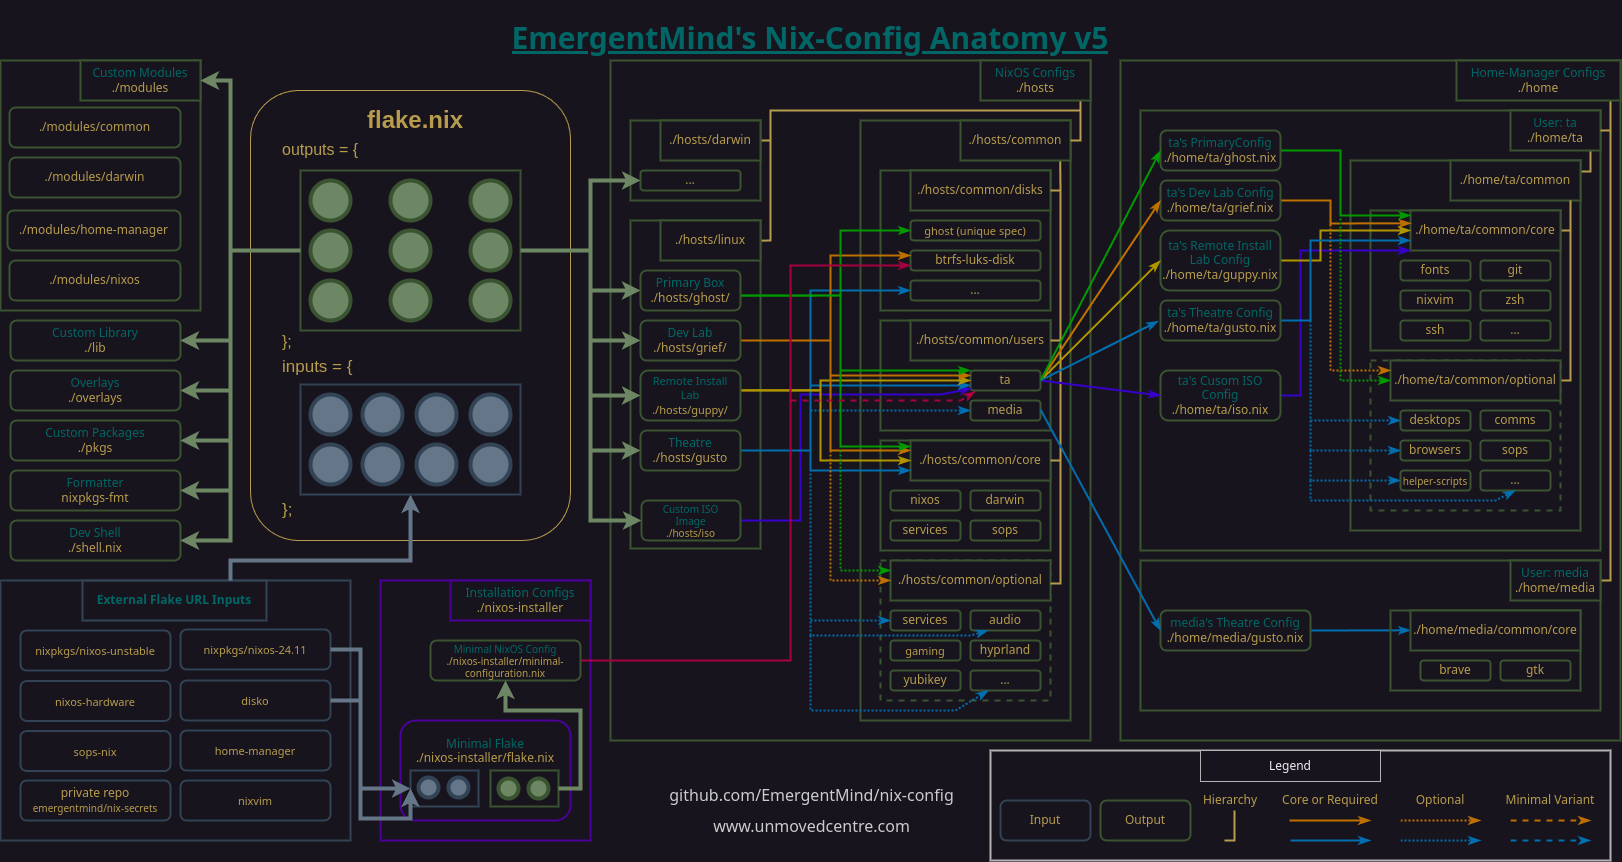
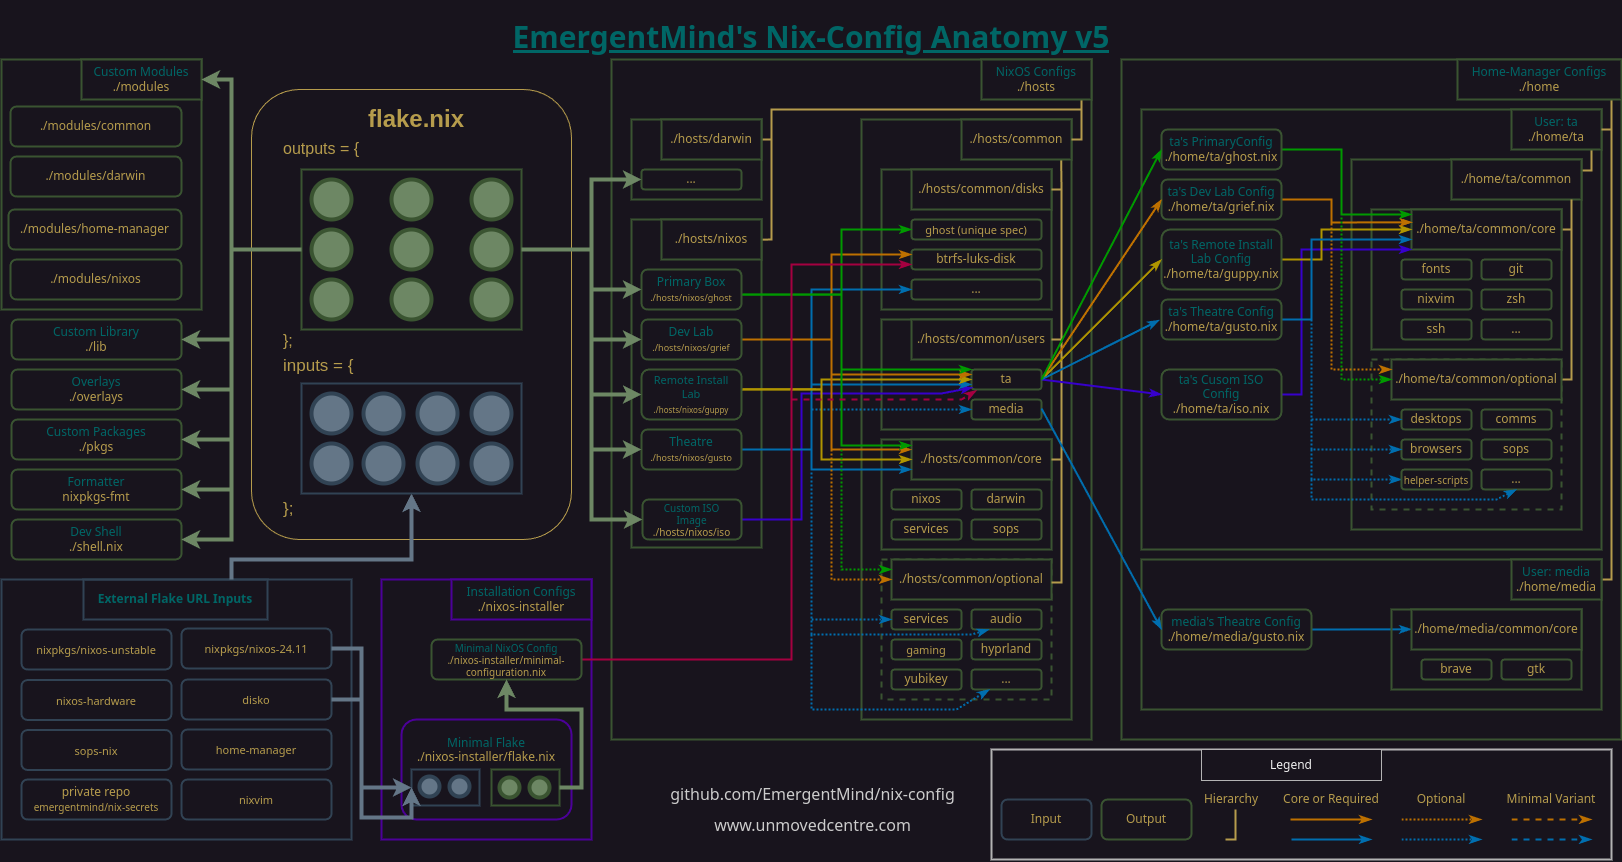
refactor: rename hosts/linux to hosts/nixos

diff --git a/README.md b/README.md
@@ -98,9 +98,9 @@ For a large screenshot of the concept diagram, as well as previous iterations, s
     - `optional` - Optional configurations present across more than one host.
     - `users` - Host level user configurations present across at least one host.
         - `<user>/keys` - Public keys for the user that are symlinked to ~/.ssh
-  - `dariwn` - machine specific configurations for hosts on dariwn systems
+  - `dariwn` - machine specific configurations for darwin-based hosts
       - Currently not using any darwin hosts
-  - `linux` - machine specific configurations for hosts on linux systems
+  - `nixos` - machine specific configurations for NixOS-based hosts
       - `genoa` - stage 6
       - `ghost` - Primary box - 4.0GHz Ryzen 5 3600XT (6C/12T), 64MB RAM, Radeon RX5600XT
       - `grief` - Lab - Qemu VM
@@ -115,16 +115,16 @@ For a large screenshot of the concept diagram, as well as previous iterations, s
       The home-manager core and options are defined in host-specific .nix files housed in `home/<user>`.
 - `lib` - Custom library used throughout the nix-config to make import paths more readable. Accessible via `lib.custom`.
 - `modules` - Custom modules to enable special functionality and options.
-    - `common` - Custom modules that will work on either linux or dariwn but that aren't specific to home-manager
+    - `common` - Custom modules that will work on either nixos or dariwn but that aren't specific to home-manager
     - `darwin` - Custom modules specific to dariwn-based hosts
     - `home-manager` - Custom modules to home-manager
-    - `nixos` - Custom modules specific to linux-based hosts
+    - `nixos` - Custom modules specific to nixos-based hosts
 - `nixos-installer` - A stripped down version of the main nix-config flake used exclusively during installation of NixOS and nix-config on hosts.
 - `overlays` - Custom modifications to upstream packages.
 - `pkgs` - Custom packages meant to be shared or upstreamed.
-    - `common` - Custom packages that will work on either linux or dariwn
+    - `common` - Custom packages that will work on either nixos or dariwn
     - `darwin` - Custom packages specific to dariwn-based hosts
-    - `nixos` - Custom packages specific to linux-based hosts
+    - `nixos` - Custom packages specific to nixos-based hosts
 - `scripts` - Custom scripts for automation, including remote installation and bootstrapping of NixOS and nix-config.
 
 ## Secrets Management

diff --git a/docs/CHANGELOG.md b/docs/CHANGELOG.md
@@ -12,9 +12,9 @@ This is a significant refactor that involves several breaking changes.
 
 - Custom library functions previously accessed via `configLib` are now accessible via `lib.custom`. There were many scenarios where both `lib` and `configLib` were being passed as arguments. This change eliminates the need to pass `configLib`.
 - Support for both darwin and nixos platforms. This required some structural enhancements as described below
-- Several directory paths now have an additional layer of directories to separate files that are common to both darwin and linux/nixos systems or are specific to one.
+- Several directory paths now have an additional layer of directories to separate files that are common to both darwin and nixos systems or are specific to one.
 
-	- `linux` and `darwin` sub-directories were added to `nix-config/hosts/` to delineate between the different each hosts underlying system. E.g. `nix-config/hosts/linux/<hostname>`
+	- `nixos` and `darwin` sub-directories were added to `nix-config/hosts/` to delineate between the different each hosts underlying system. E.g. `nix-config/hosts/nixos/<hostname>`
 	- `common` and `darwin` directories have been added to `nix-config/modules`. One of the modules that was previously in `/nix-config/modules/nixos` has been moved to `/nix-config/modules/common`
 	- `common`, `darwin`, and `nixos` directories have been added to `nix-config/pkgs`
 
@@ -35,7 +35,7 @@ This is a significant refactor that involves several breaking changes.
 
 	- the iso now imports `nix-config/home/ta/common/core`.
 	- the iso is no longer considered minimal and therefore does not set the `isMinimal` flag to true.
-	- the iso has been moved from `nix-config/nixos-installer/iso` to `nix-config/hosts/linux/iso`
+	- the iso has been moved from `nix-config/nixos-installer/iso` to `nix-config/hosts/nixos/iso`
 	- the `just iso` recipe now creates a symlink called `nix-config/latest.iso` that links to `result/iso/foo.iso`
 
 - Documentation styling has been unified throughout nix-config to improve visual appearance and readability. This may not be to everyone's taste but I like it and at least it's now consistent throughout (unless I've missed something).

diff --git a/docs/addnewhost.md b/docs/addnewhost.md
@@ -3,7 +3,7 @@
 [README](../README.md) > Adding A New Host
 
 FIXME These steps can and should be streamlined significantly during each roadmap stage. In particular, install from the liveISO rather than installing and then loading the config. I opted to forgo the latter until the config is more mature and I better understand the required process.
-FIXME(docs) Needs revision based on hostSpec and linux/darwin support overhaul
+FIXME(docs) Needs revision based on hostSpec and nixos/darwin support overhaul
 
 ### Requirements
 
@@ -11,7 +11,7 @@ Because this repo relies on a private `nix-secrets` repository input as a flake 
 
 ### In this repo
 
-1. Create a configuration file for the new host at `hosts/linux/<hostname/default.nix` (replace `linux` with Darwin if that's what your using). Refer to existing host configs and define the config as needed.
+1. Create a configuration file for the new host at `hosts/nixos/<hostname/default.nix` (replace `nixos` with Darwin if that's what your using). Refer to existing host configs and define the config as needed.
 2. Add users to `hosts/common/users/<usern>.nix` if needed
 3. Create a host-specific home config for each user that will be accessing the host at `home/<user>/<hostname>.nix`. Refer to exiting user configs and define [the](the) config as needed.
 4. Edit `flake.nix` to include a the following entries:

diff --git a/docs/installnotes.md b/docs/installnotes.md
@@ -622,7 +622,7 @@ https://nixos.org/manual/nixos/stable/#sec-installing-virtualbox-guest
 
     ```bash
     $ cd nix-config
-    $ cp /etc/nixos/hardware-configuration.nix hosts/linux/grief/
+    $ cp /etc/nixos/hardware-configuration.nix hosts/nixos/grief/
     ```
 
 17. Add git user info so that the changes can be successfully committed and pushed

diff --git a/modules/nixos/backup/README.md b/modules/nixos/backup/README.md
@@ -85,7 +85,7 @@ Depending how you configure the borg server, user's home locations may not be in
 
 ```nix
 
-nix-config/hosts/linux/ghost/default.nix
+nix-config/hosts/nixos/ghost/default.nix
 
 --------------------
 
